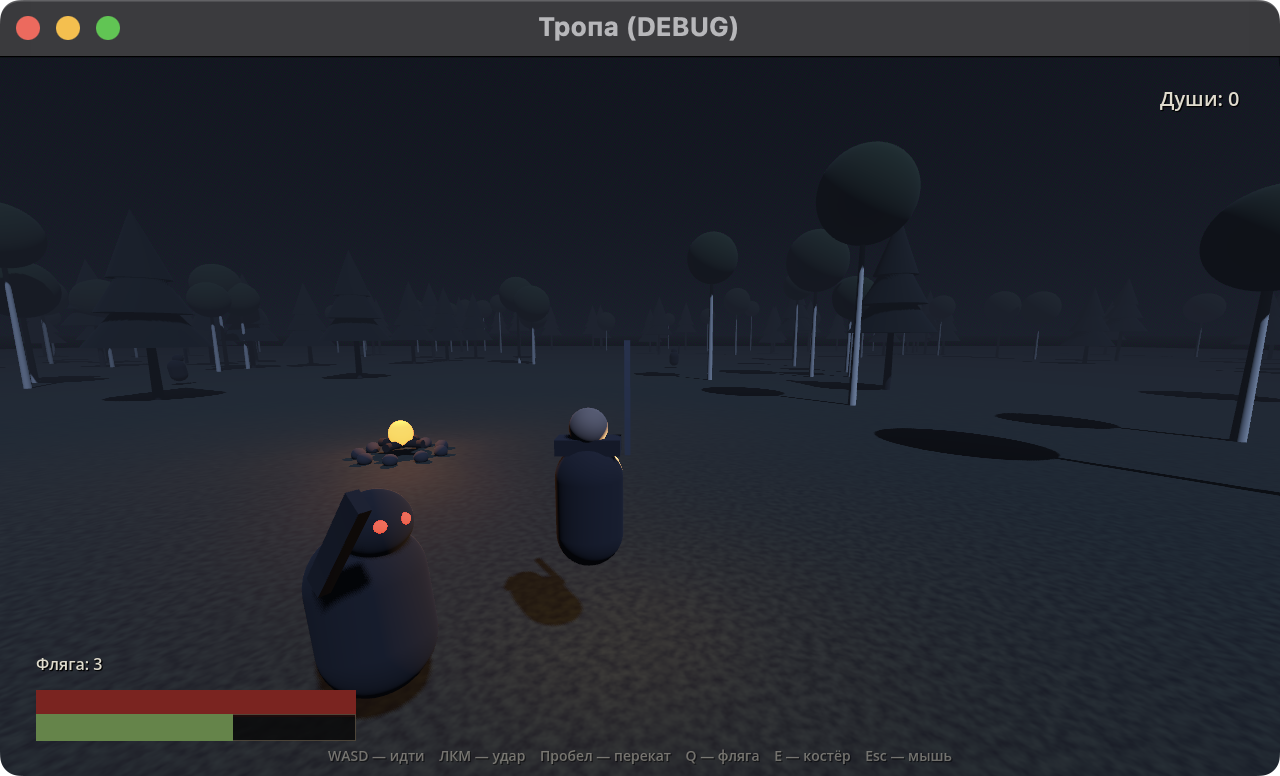
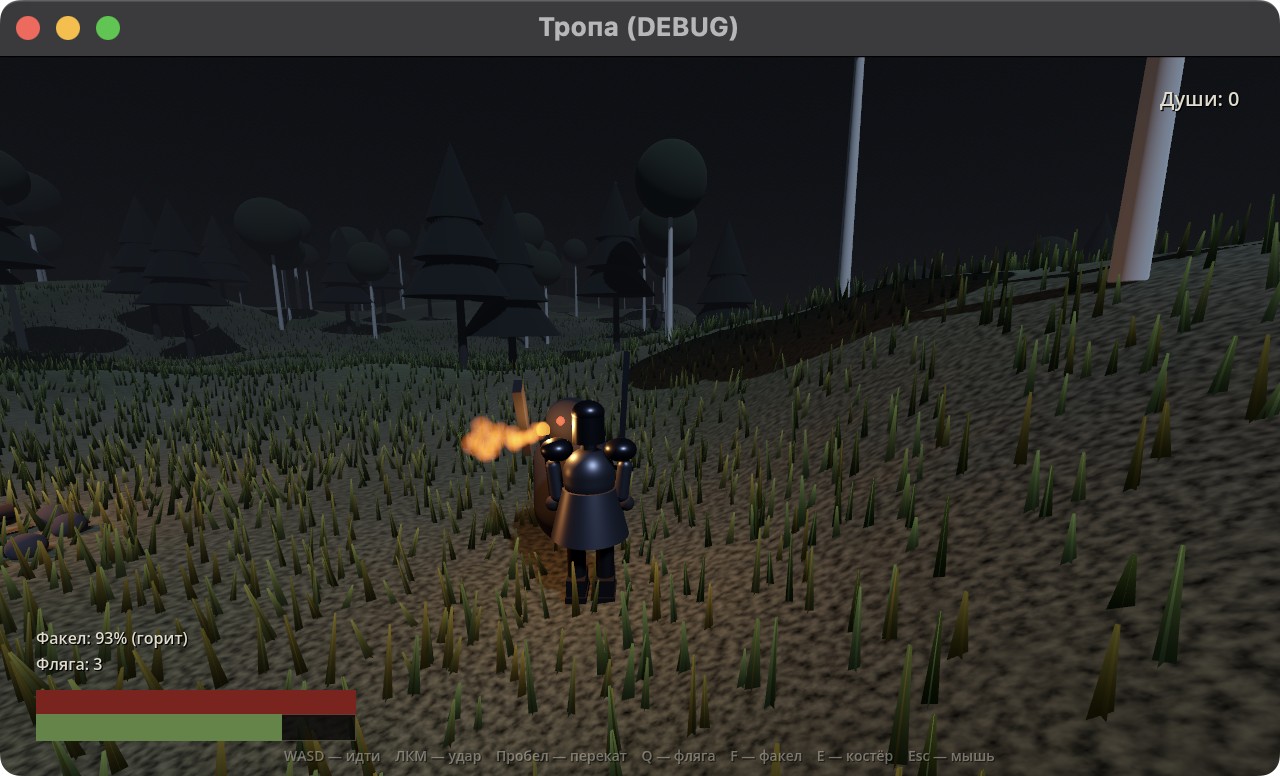
Мир: холмы, река, трава, рыцарь с факелом
- рельеф на высотной карте, коллизия из того же меша
- река с шейдером воды в вырезанном русле
- трава на MultiMesh (22k) с ветром в вершинном шейдере
- рыцарь: кольчуга, шлем, чёрные сапоги, меч за спиной
- факел: частицы, мерцающий свет, топливо, заправка у костра
- починен порядок вершин рельефа (не рисовался) и пружина камеры

diff --git a/README.md b/README.md
@@ -2,14 +2,16 @@
 
 Мрачный соулслайк в русском лесу. Godot 4.7, GDScript, 3D от третьего лица.
 
+![Как это выглядит](docs/screenshot.png)
+
 ## Запуск
 
 ```bash
-godot --path .          # из терминала
+godot --path .
 ```
 
-Или графически: открыть `/Applications/Godot.app`, «Import» → выбрать папку проекта → Run (F5).
-Экспорт в `.app`/`.exe`/web — через `Project → Export`.
+Или графически: открыть `/Applications/Godot.app`, «Import» → папка проекта → F5.
+Экспорт в `.app`/`.exe`/web — `Project → Export`.
 
 ## Управление
 
@@ -17,52 +19,79 @@ godot --path .          # из терминала
 |---|---|
 | WASD | идти |
 | Мышь | камера |
-| ЛКМ | удар |
-| Пробел | перекат (кадр неуязвимости) |
+| ЛКМ | удар (меч достаётся из-за спины) |
+| Пробел | перекат, кадр неуязвимости |
+| F | зажечь/погасить факел |
 | Q | фляга лечения |
 | E | отдохнуть у костра |
 | Esc | освободить мышь |
 
 ## Что уже работает
 
-- третье лицо: камера на пружине, персонаж поворачивается по движению;
+**Мир**
+- холмистый рельеф: высотная карта 200×200 м, меш и коллизия из одних данных;
+- река в вырезанном русле, вода с шейдером течения и френелем;
+- 22 000 пучков травы на MultiMesh, качаются в вершинном шейдере;
+- 240 деревьев (берёзы и ели), расставлены по высоте и уклону, не лезут в воду;
+- туман, луна, приглушённый цвет — депрессивная ночь.
+
+**Бой**
 - выносливость: удар и перекат тратят, восстанавливается сама;
-- враг с ИИ: замечает, идёт, замахивается (телеграф — глаза вспыхивают), бьёт, получает стаггер;
-- здоровье, урон с обеих сторон, HUD с полосами и счётчиком душ;
-- костёр: лечит, заряжает флягу, возвращает врагов;
-- души: падают с врагов, при смерти остаются светящимся пятном на месте гибели и подбираются обратно.
+- враг с автоматом состояний: замечает → идёт → замахивается → бьёт → стаггер;
+- здоровье, урон, HUD.
+
+**Рыцарь**
+- кольчуга, наплечники, шлем с прорезью, чёрные сапоги, меч за спиной;
+- меч на удар достаётся из-за спины и возвращается обратно;
+- факел: огонь из частиц, живой свет с мерцанием, топливо (80 с), заправка у костра.
+
+**Петля**
+- костёр: лечит, заряжает флягу и факел, возвращает врагов;
+- души падают с врагов; после смерти остаются на месте гибели и подбираются.
 
 ## Структура
 
 ```
-project.godot        настройки проекта
-scenes/main.tscn     корневая сцена, весь мир строится кодом
-scenes/player.tscn   игрок: коллизия, камера на пружине
-scenes/enemy.tscn    враг: коллизия, модель строится кодом
-scripts/main.gd      лес, костёр, спавн, души, отдых
-scripts/player.gd    движение, камера, бой, выносливость, фляга
-scripts/enemy.gd     конечный автомат врага и телеграфы
-scripts/hud.gd       интерфейс на CanvasLayer
-DESIGN.md            дизайн-документ: цикл, враги, прокачка
+project.godot            настройки проекта
+scenes/main.tscn         корневая сцена
+scenes/player.tscn       игрок: коллизия, камера на пружине
+scenes/enemy.tscn        враг
+scripts/main.gd          сборка мира, костёр, спавн, души
+scripts/terrain.gd       высоты, меш рельефа, коллизия, вода
+scripts/grass.gd         трава на MultiMesh + шейдер ветра
+scripts/knight_model.gd  модель рыцаря, меч, факел
+scripts/player.gd        движение, бой, выносливость, факел
+scripts/enemy.gd         ИИ врага и телеграфы
+scripts/hud.gd           интерфейс
+DESIGN.md                дизайн-документ
 ```
 
-Мир и модели пока строятся кодом (капсулы, цилиндры, конусы) — это заглушки,
-чтобы цикл игрался до появления нормальных ассетов. Когда появятся модели,
-`_build_model()` в игроке и враге заменяется на загрузку сцены, а логика не трогается.
+Модели собираются из примитивов кодом: это заглушки, чтобы цикл игрался
+до появления нормальных ассетов. Логика от них не зависит — при импорте
+модели меняется только `_build_model()`.
 
 ## Проверка без окна
 
 ```bash
-godot --headless --path . --quit-after 150
+godot --headless --path . --quit-after 200
 ```
 
-Ошибки скриптов печатаются в консоль. Так удобно ловить регрессии после правок.
+Печатает ошибки скриптов и число посаженной травы.
+
+## Git
+
+Репозиторий инициализирован локально. Когда понадобится GitHub:
+
+```bash
+gh repo create tropa --private --source=. --push
+# или
+git remote add origin git@github.com:<user>/tropa.git && git push -u origin main
+```
 
 ## Дальше по плану
 
-1. Лок-он на врага (Tab) и переключение цели.
-2. Уровни у костра: трата душ, четыре ветки прокачки.
-3. Три типа врагов: волк, леший, кикимора — с разными телеграфами.
-4. Смена суток и фонарь как ресурс.
-5. Звук: шаги, ветер, костёр, вой.
-6. Нормальные модели (Blender) и анимации, экспорт.
+1. Лок-он на врага (Tab) и прокачка душ у костра.
+2. Леший и кикимора — другие телеграфы, другой бой.
+3. Звук: шаги, ветер, костёр, вой.
+4. Нормальные модели (Blender) и анимации.
+5. Дождь и лужи, смена суток.

diff --git a/DESIGN.md b/DESIGN.md
@@ -54,8 +54,34 @@ Dark Souls 3 по ощущению, но теснее и темнее:
 
 ## Мир
 
-Участок леса ~220×220 м, без загрузок. Опушка с берёзами, ельник стеной,
-болото, тропа от костра в глубь. Края — бурелом и туман.
+Участок 200×200 м, без загрузок. Холмы высотой до 10 м, река в долине
+на востоке, поляна с костром в центре, березняк и ельник по склонам.
+Края — туман и бурелом.
+
+**Рельеф.** Высоты считаются один раз в массив: из него собираются и меш,
+и коллизия, поэтому визуал и физика не расходятся. Русло реки вырезается
+в тех же высотах, поэтому вода всегда лежит в своей долине.
+
+**Река.** Широкая тёмная вода в вырезанном русле, шейдер с двумя слоями
+ряби (нормали), френелем и слабым свечением у берега. Течёт вдоль востока,
+через неё нет брода — это граница карты.
+
+**Трава.** 22 000 пучков на MultiMesh, один draw call. Ветер — в вершинном
+шейдере, по двум синусам от мировой позиции, чтобы волна шла по полю.
+Трава не растёт в воде и на крутых склонах.
+
+**Свет.** Ночи мало: луна холодная и слабая, туман съедает даль, цвет
+приглушён. Поэтому главный источник света — факел в руке.
+
+## Рыцарь
+
+Кольчуга, наплечники, шлем с прорезью, чёрные сапоги, меч за спиной.
+На удар меч достаётся из-за спины, бьёт и возвращается — без отдельных анимаций,
+но читаемо.
+
+**Факел.** Зажигается по F, горит 80 секунд, заправляется у костра.
+Даёт тёплый дрожащий свет и делает лес видимым — но и враги замечают
+тебя раньше. Свет — это ресурс и риск одновременно.
 
 ## Границы объёма
 
